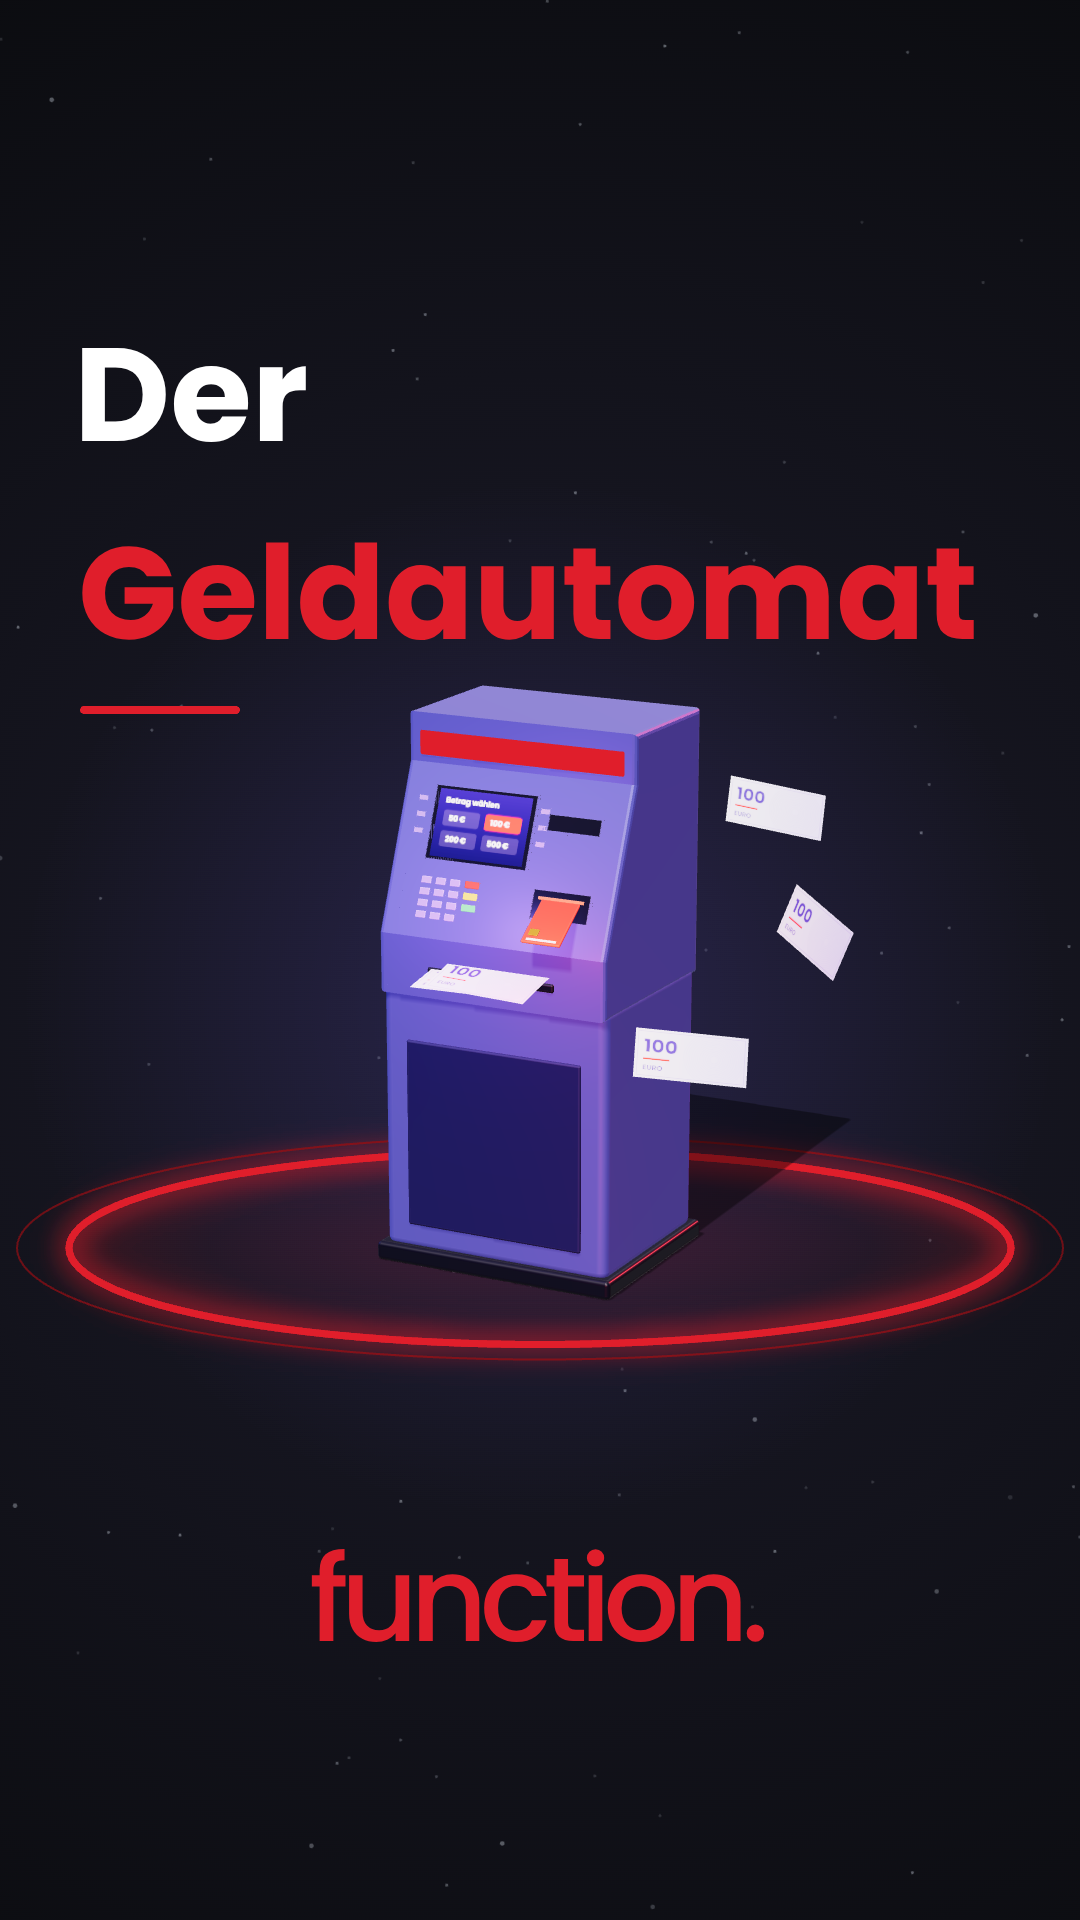
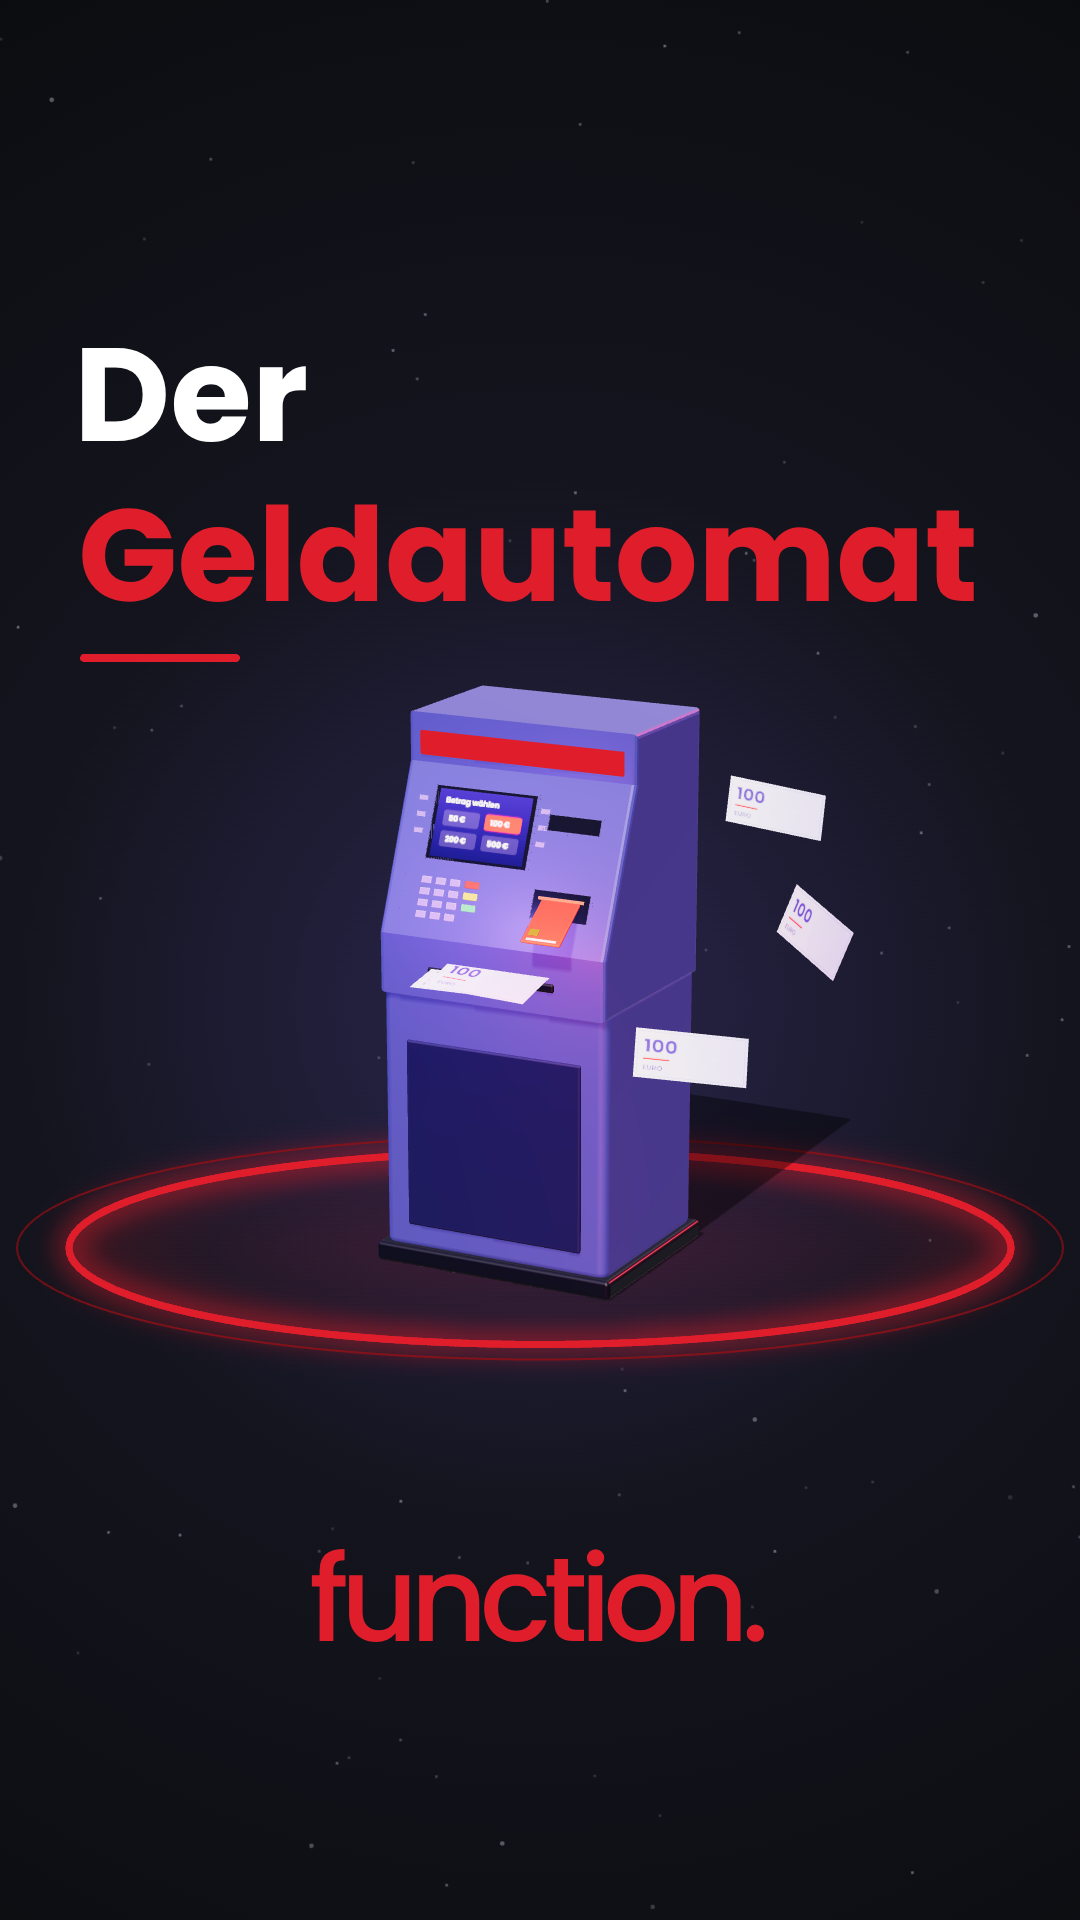
Geldautomat-Cover: Titelzeilen enger, Regel für Zeilenabstand festgehalten
Claude-Session: https://claude.ai/code/session_01JQEQekkBb92rcFjdCYtWsZ

Changed region(s): [[0.0611, 0.25, 0.9167, 0.375]]

diff --git a/geldautomat/cover_atm_neu.html b/geldautomat/cover_atm_neu.html
@@ -107,8 +107,8 @@ renderer.render(scene,cam);
 function calib(weight,ch,target,useCap){fg.font=`${weight} 100px Poppins`;const m=fg.measureText(ch);return 100*target/m.actualBoundingBoxAscent;}
 const s1=calib(700,'l',441-338)*0.951,s2_=calib(700,'B',639-506)*1.015;
 fg.fillStyle='#FFFFFF';fg.font=`700 ${s1}px Poppins`;{const m=fg.measureText(L1);fg.fillText(L1,82-m.actualBoundingBoxLeft*-1+0,441);}
-fg.fillStyle=RED;fg.font=`700 ${s2_}px Poppins`;{let m=fg.measureText(L2);let z=s2_;if(m.width>900){z=s2_*900/m.width;fg.font=`700 ${z}px Poppins`;m=fg.measureText(L2);}fg.fillText(L2,82+m.actualBoundingBoxLeft,639);}
-fg.fillStyle=RED;fg.beginPath();fg.roundRect(80,706,160,8,4);fg.fill();
+fg.fillStyle=RED;fg.font=`700 ${s2_}px Poppins`;{let m=fg.measureText(L2);let z=s2_;if(m.width>900){z=s2_*900/m.width;fg.font=`700 ${z}px Poppins`;m=fg.measureText(L2);}fg.fillText(L2,82+m.actualBoundingBoxLeft,601);}
+fg.fillStyle=RED;fg.beginPath();fg.roundRect(80,654,160,8,4);fg.fill();
 // logo: Poppins 500, size from f-height (1641-1548), tracking solved so total ink width = 454 px, centred
 {const sz=calib(500,'f',1641-1548);fg.font=`500 ${sz}px Poppins`;const s='function.';const ws=[...s].map(c=>fg.measureText(c).width);
  const mF=fg.measureText('f'),mD=fg.measureText('.');const base=ws.reduce((a,b)=>a+b,0);

diff --git a/CLAUDE.md b/CLAUDE.md
@@ -17,8 +17,8 @@
 - **Übergangs-Sounds:** keine Standard-Synth-Whooshes („hat jeder auf TikTok“). Für Wischer/Szenenwechsel die vom Nutzer gelieferten Epidemic-Sounds verwenden: `paket-test/sfx_epidemic/whoosh.mp3` (2 weiche Swooshes) und `clicks.mp3` (3 UI-Klicks, z. B. wenn eine Zahl erscheint).
 - **Cover:** exakt wie das BER-Cover (Vorlage vom Nutzer, pixelgenau vermessen) – Template `paket-test/cover3.html` (Titel per URL `?l1=…&l2=…`):
   - Hintergrund: radialer Verlauf #1A1D23 → #0A0B0E mit feinen Sternpunkten.
-  - Titel LINKSBÜNDIG (Tinte ab x=82): Zeile 1 weiß, Poppins Bold, Oberkante y≈335, Grundlinie y=441; Zeile 2 rot #E01E2B, Poppins Bold, Großbuchstaben-Oberkante y=506, Grundlinie y=639. Schlichter Titel („Flughafen BER“, „Das Paket“).
-  - Roter Strich x 80–240, y 706–714, abgerundet.
+  - Titel LINKSBÜNDIG (Tinte ab x=82): Zeile 1 weiß, Poppins Bold, Oberkante y≈335, Grundlinie y=441; Zeile 2 rot #E01E2B, Poppins Bold, Großbuchstaben-Oberkante y≈468, Grundlinie y=601 (enger Zeilenabstand: nur ~27 px Luft zwischen Zeile 1 und Zeile 2, Wunsch des Nutzers 16.11.2026 – der alte Abstand mit Oberkante y=506 war „zu viel Abstand“). Schlichter Titel („Flughafen BER“, „Das Paket“).
+  - Roter Strich x 80–240, y 654–662, abgerundet (rückt mit Zeile 2 nach oben).
   - Liegender roter Ring: Ellipse Mitte (540, 1248), außen rx 474,5 / ry 100, 7 px mit Glow, dünner dunkelroter Außenring #6E0F16 (rx 524 / ry 112,5), leichter roter Schimmer innen. Motiv steht mittig auf dem Ring.
   - Logo „function.“ Poppins Medium, zentriert, Tinte x 311–765, f-Oberkante y=1548, Grundlinie y=1641.
   - Nicht verwenden: zentrierte Fragetitel mit Kreisringen (alte cover6/7-Variante).
